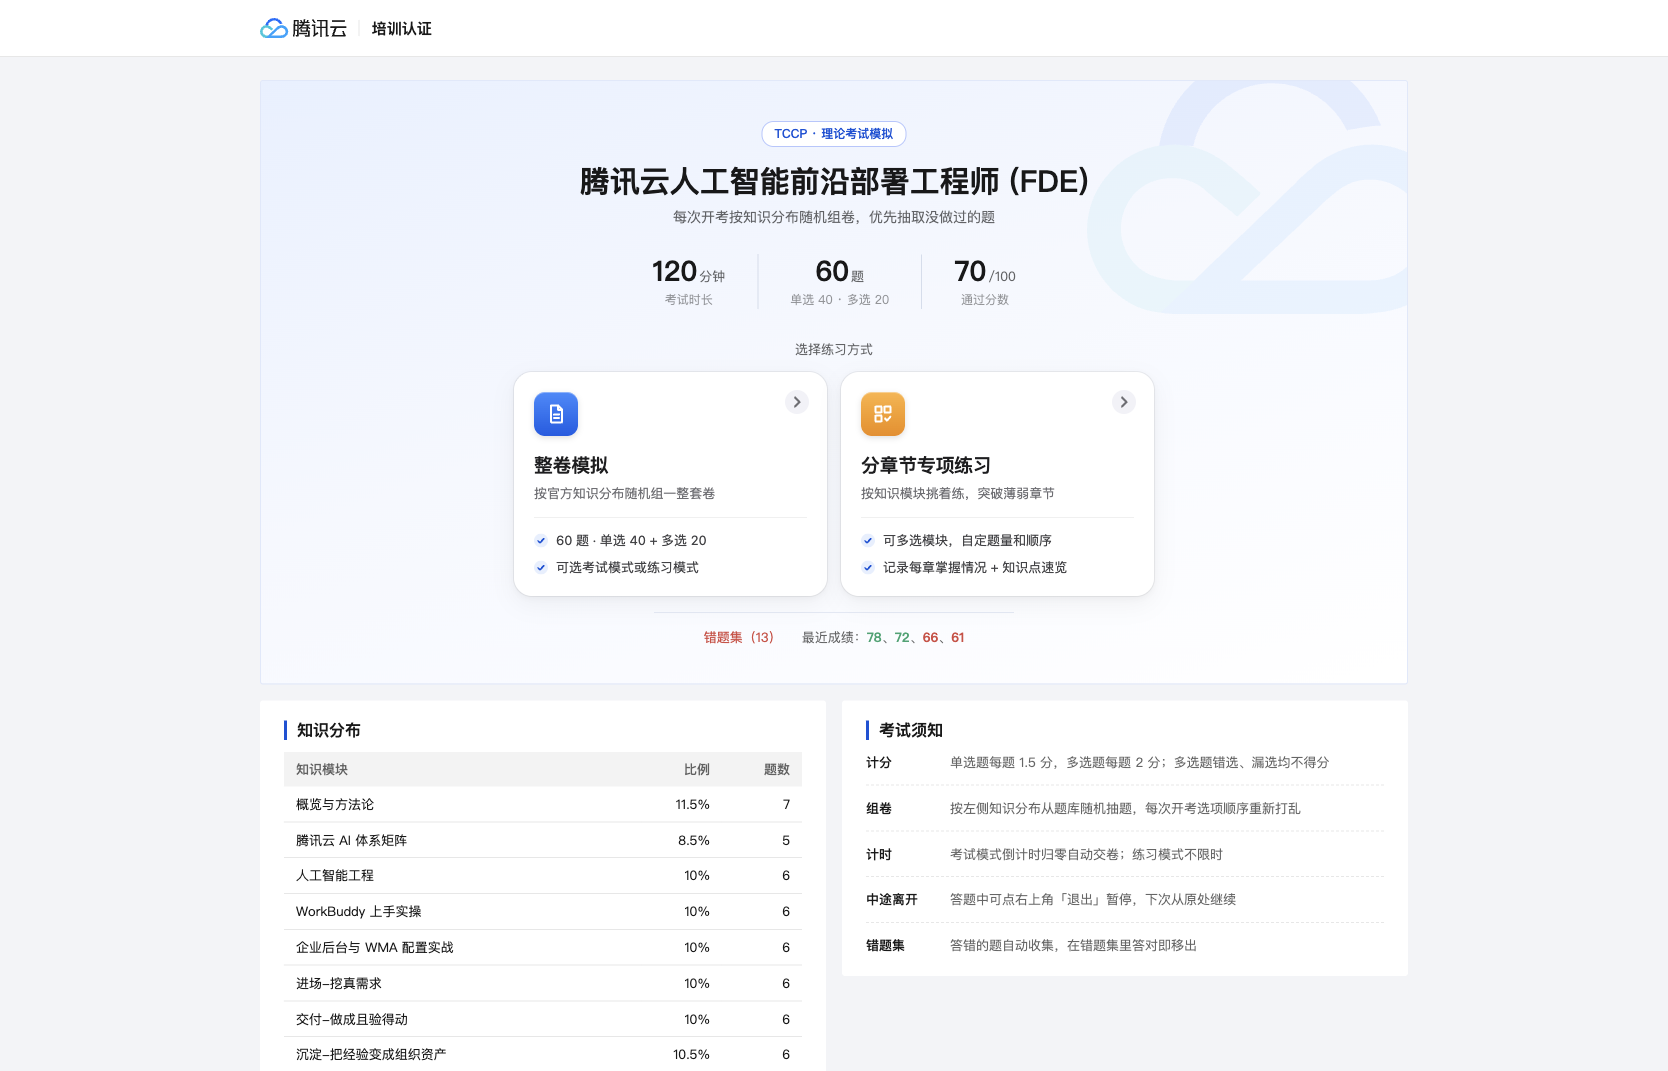
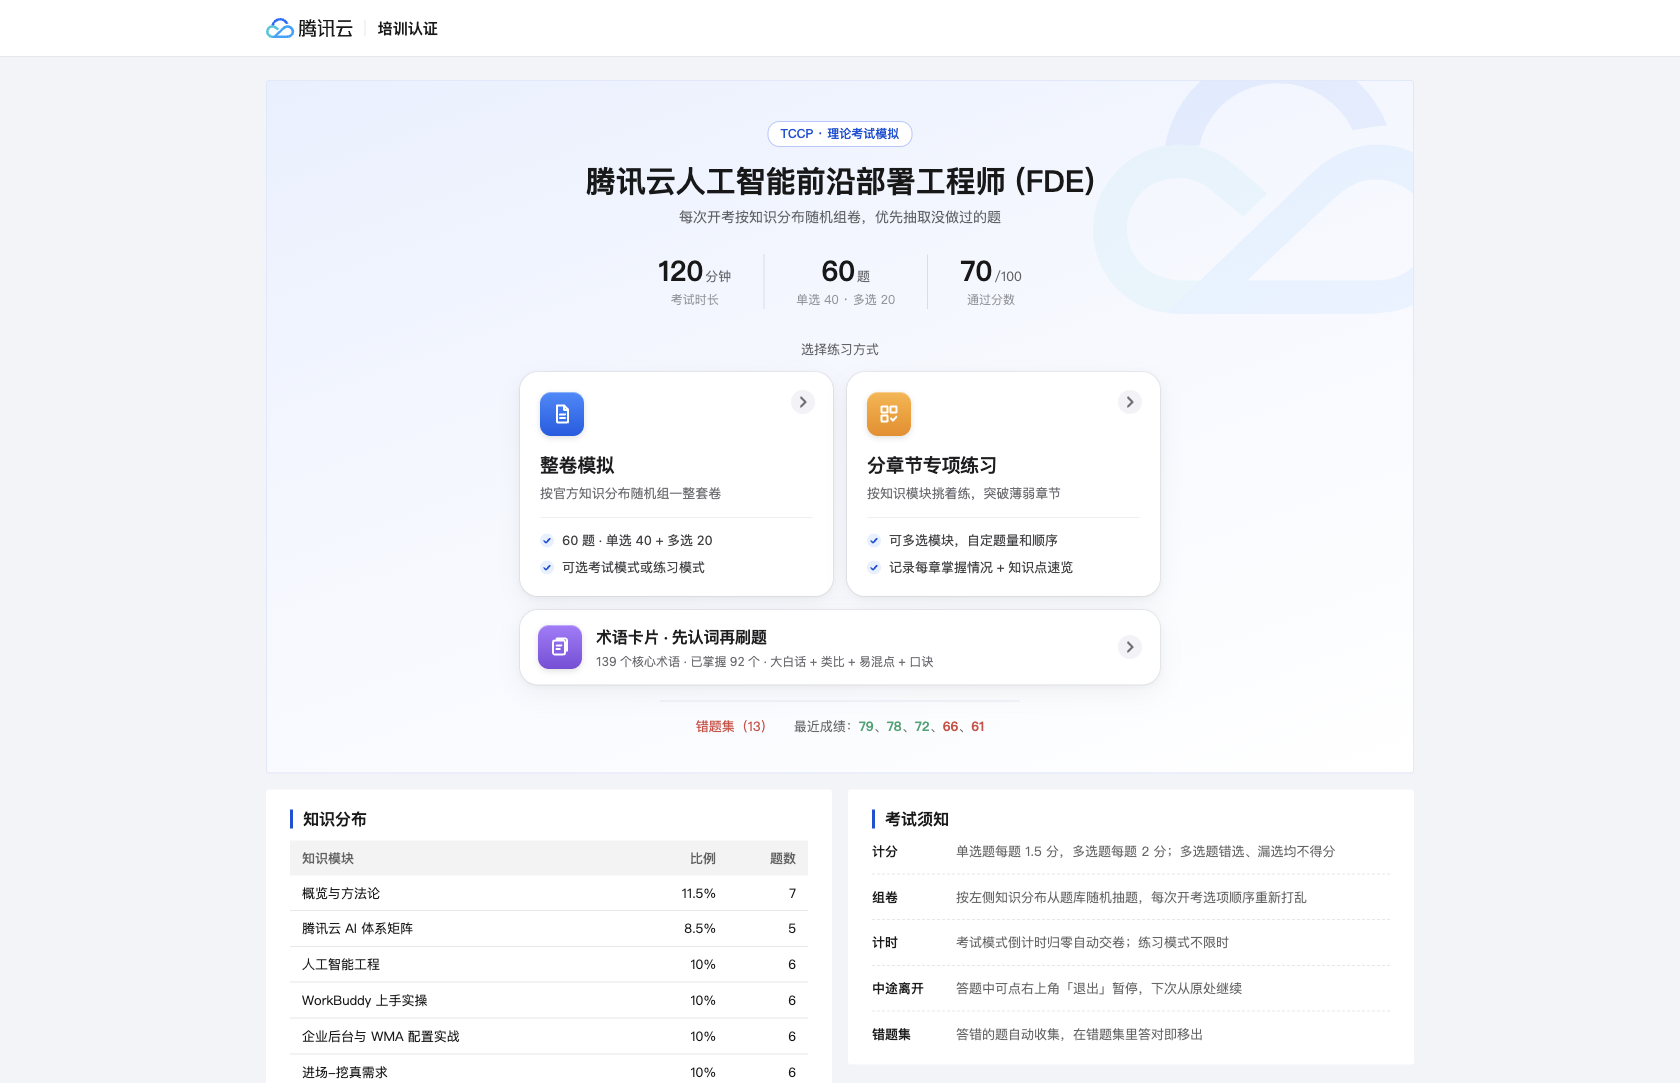
README：补充术语卡片的截图、机制说明与扩充方法

diff --git a/README.md b/README.md
@@ -14,6 +14,7 @@
 - **对齐真实考试规格**：每套 60 题（单选 40 × 1.5 分 + 多选 20 × 2 分），120 分钟，70 分及格；10 个知识模块的题数按官方考试指南公布的占比分配。
 - **依据课程原文出题**：题目根据配套课程 12 章内容和官方考试指南的「考核重点」编写，由 AI 辅助生成，再逐题对照课程原文核对答案和数字；每题附逐项解析、本题考点、知识点讲解和课程出处。
 - 共 615 题：10 个模块的场景化题目 600 道（相当于 10 套完整试卷），外加官方在线模拟考试的 15 道题（作答后从官方「正确答案」页整理，补充了解析）。
+- **配套 139 张术语卡片**：课程里很多概念第一次接触（Echo/Delta、PEV、死亡谷、三态溯源、Harness、PKCE……），只刷题容易「记住选 B 却不知道为什么」。所以按模块整理了核心术语，每个都配大白话、类比、易混点和口诀，先认词再刷题。
 
 > 再次说明：这些是**模拟题**，不是官方考试真题，只用于自己练习。
 
@@ -79,7 +80,7 @@
 
 > 以下截图来自本项目，数据为演示用的练习记录。
 
-**首页：选择练习方式**——「整卷模拟」按官方知识分布随机组一整套 60 题；「分章节专项练习」按模块挑着练。下方是知识分布和考试须知，首页还会显示错题集和最近成绩。
+**首页：选择练习方式**——「整卷模拟」按官方知识分布随机组一整套 60 题；「分章节专项练习」按模块挑着练；「术语卡片」先认词再刷题。下方是知识分布和考试须知，首页还会显示错题集、最近成绩和卡片掌握进度。
 
 ![首页](docs/images/app-home.png)
 
@@ -106,6 +107,14 @@
 **知识点速览**——按课程小节汇总所选模块的全部考点，可展开查看讲解，考前快速过一遍。
 
 ![知识点速览](docs/images/app-overview.png)
+
+**术语卡片**——先看术语自己想一想，再翻面看答案：一句大白话、生活类比、关键要点（清单和数字与课程原文一致）、易混点、口诀和课程出处。选「不认识」的卡片会隔几张再出现，直到认识为止；底部「练相关题」可以直接做用到这个术语的题目。
+
+![术语卡片](docs/images/app-cards-back.png)
+
+**术语卡片 · 列表速览**——一页看完一个模块的全部术语和口诀，适合考前快速过一遍；点开每一条可以看详情、标记掌握。
+
+![术语卡片列表速览](docs/images/app-cards-list.png)
 
 **手机端**——自适应布局，答题顶栏和答题卡针对小屏重新排布。
 
@@ -198,10 +207,13 @@ js/questions.js     题库（由 scripts/build.py 生成，不要手改）
 js/glossary.js      术语卡片（由 scripts/build.py 根据 data/glossary/ 生成）
 js/cards.js         术语卡片逻辑
 data/m0~m9.json     各模块题目源文件，set 字段表示第几套
+data/glossary/      术语卡片源文件（g0~g9.json，按模块）
 data/official.json  官方模拟考试 15 题
 scripts/build.py    合并 data/ 生成 js/questions.js，并校验格式
 server.js           零依赖本地静态服务器
 docs/images/        README 用的截图（官网认证页与本系统界面）
+docs/question-style.md  出题与解析规范
+docs/glossary-style.md  术语卡片编写规范
 ```
 
 ## 题库机制与扩充
@@ -227,13 +239,29 @@ docs/images/        README 用的截图（官网认证页与本系统界面）
 - **分章节专项练习**：只在选中的模块里抽题，顺序可选「没做过优先 / 错题优先 / 随机」，按每题的作答记录（`fde-mock-qstat`）排序，与整卷的「已出过」记录互不影响。
 - 线上登录后，以上记录都按账号同步，换设备不会从头开始。
 
+### 术语卡片的机制
+
+- 源文件在 `data/glossary/g0.json` ~ `g9.json`，按 10 个模块分文件，共 139 个术语；`scripts/build.py` 合并生成 `js/glossary.js`。
+- 每个术语的字段：`term` 术语名、`aliases` 别名、`plain` 大白话、`analogy` 类比、`points` 关键要点、`confuse` 易混点、`mnemonic` 口诀、`src` 出处。完整规范见 [`docs/glossary-style.md`](docs/glossary-style.md)。
+- **学习顺序**：标过「不认识」的最先出现，其次是没看过的；同一组内按「官方占比高、在题库里出现次数多、模块内排序靠前」优先。
+- **认识 / 不认识**：选「认识了」移出待学（「只看没掌握」模式）；选「不认识」的卡片隔 4 张再出现。掌握情况记在 `fde-mock-cards`，线上按账号同步。
+- **练相关题**：页面自动在题库的题干、考点和讲解里查找术语名和别名，找出用到这个术语的题（每个术语都至少能匹配到几道），随机抽最多 15 道用练习模式作答。
+
 ### 10 套都做完了怎么办
 
+0. **先补认词**：打开「术语卡片」，把「只看没掌握」刷到清零；似懂非懂的卡片点「练相关题」检验。
 1. **先看哪里弱**：首页「分章节专项练习」里每个模块都显示正确率，红色（< 60%）和橙色（60%–80%）的就是重点。
 2. **专项刷错题**：选中薄弱模块，顺序选「错题优先」，题量选「全部」，把做错过的题全部再过一遍；也可以直接进「错题集」，在错题集里答对一次即移出。
 3. **考前看知识点速览**：选中模块后点「先看这些模块的知识点速览」，按课程小节把全部考点过一遍。
 4. **继续整卷练手感**：第二轮整卷题目会重复，但能练限时节奏和整体判断；目标是稳定在 80 分以上。
 5. **还想要新题**：按下面的方法扩充题库。新题加入后，整卷会优先抽这些没出过的新题。
+
+### 增加术语卡片
+
+1. 按 [`docs/glossary-style.md`](docs/glossary-style.md) 写术语（可以把对应章节原文、规范和该模块已有题目交给 AI 整理，再人工核对）。
+2. 追加到对应模块的 `data/glossary/gX.json`，运行 `python3 scripts/build.py`（会检查必填字段），再部署。
+3. 页面按「模块 + 术语名」识别一张卡片：**改术语名**会被当成新卡片，原来的掌握记录不再对应；改解释内容不受影响。
+4. `aliases` 要写具体的别名或缩写（用于匹配相关题），不要写太宽泛的词，否则「练相关题」会混进无关题目。
 
 ### 增加题目
 
@@ -256,5 +284,5 @@ docs/images/        README 用的截图（官网认证页与本系统界面）
 
 ### 作答数据存在哪里
 
-- 线上站点：登录后按账号保存在服务器（见上文「登录」），多设备同步。
+- 线上站点：登录后按账号保存在服务器（见上文「登录」），多设备同步，包括做题记录、错题集、成绩、进行中的考试和术语卡片的掌握情况。
 - 本地直接打开：只存在当前浏览器的 localStorage 里。

diff --git a/docs/glossary-style.md b/docs/glossary-style.md
@@ -1,0 +1,38 @@
+# 术语卡片编写规范
+
+> 本项目 `data/glossary/` 下的 139 个术语就是按这份规范整理的。新增术语时照此编写。
+
+读者：明天就要参加腾讯云 FDE 认证理论考试的考生。很多术语是第一次听说，需要在一个晚上快速「认词」——知道它是什么、和谁容易混、考试怎么考。
+
+## 任务
+为指定模块整理 **10–14 个核心术语**（概念、框架、清单名、方法名都算，例如「死亡谷」「PEV 交付闭环」「三态溯源」「Echo / Delta」「OAuth 2.1 与 PKCE」）。
+挑选标准：考试最可能考、考生最可能陌生或混淆的。参考该模块的题库 JSON（看哪些概念被反复考）和课程原文。按重要性从高到低排序。
+
+## 每个术语的字段（JSON 对象）
+
+```json
+{
+  "term": "死亡谷",
+  "aliases": ["L1→L2"],
+  "plain": "大多数 AI 项目夭折的地方：Demo 做得很好，一接真实数据、真实权限、真实用户就推不动了。",
+  "analogy": "像样板间装修得很漂亮，真住进去才发现水电没通。",
+  "points": ["位置：L0–L4 成熟度框架中 L1（原型验证）→ L2（试点运行）之间", "原因：脏数据、权限打不通、一线不肯用", "穿越三动作：第一天接真实数据（100 条真数据胜过 10000 条理想数据）｜权限打通排在功能开发前｜找到真心愿意用的种子用户"],
+  "confuse": "不是 L0→L1（那是把客户方案当需求的风险）；考题常把位置换成 L0→L1 或 L2→L3。",
+  "mnemonic": "真数据、先权限、找种子",
+  "src": "第 7 章 7.3"
+}
+```
+
+- `term`：术语名，简短。
+- `aliases`：其他写法或英文缩写（用于在题目里匹配相关题），没有就写 []。不要放太宽泛的词。
+- `plain`：**一句大白话**（≤ 50 字），像跟完全没接触过的人解释。
+- `analogy`：一个生活类比，帮助理解；实在没有合适的写 ""，不要硬凑。
+- `points`：2–4 条关键要点，**必须与课程原文一致**（清单内容、顺序、数字、阈值不能错）。清单类术语要把清单完整列出。
+- `confuse`：最容易和什么混、怎么区分、考题常见的干扰方式。1–2 句。
+- `mnemonic`：帮助记清单/顺序的口诀，顺口、短；没有合适的写 ""。
+- `src`：出处（章 + 小节）。
+
+## 要求
+- 内容只来自课程原文，不要编造。
+- 不要写「课程中」「原文」。
+- 输出合法 JSON 数组，追加到 `data/glossary/gX.json`（X 为模块编号 0–9），再运行 `python3 scripts/build.py` 校验。
